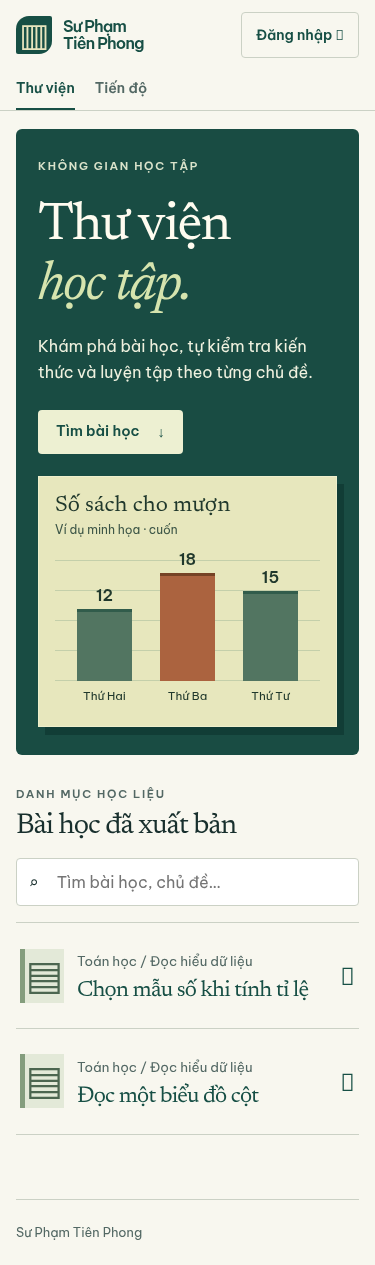
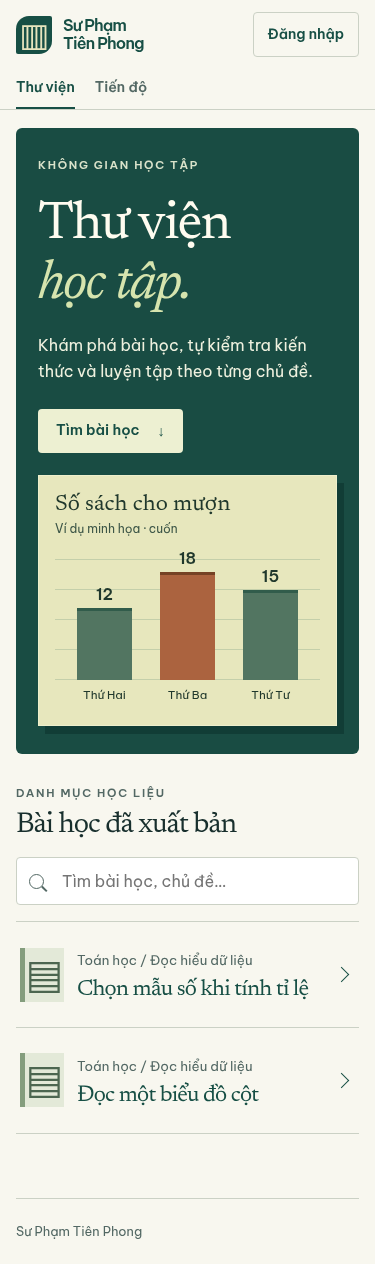
Verify static Pages navigation and polish narrow-screen catalog controls

diff --git a/apps/web/src/library.tsx b/apps/web/src/library.tsx
@@ -57,7 +57,7 @@ export function Catalog() {
 						<h2>Bài học đã xuất bản</h2>
 					</div>
 					<label className="search">
-						<span aria-hidden="true">⌕</span>
+						<span className="search-icon" aria-hidden="true" />
 						<input
 							id="search"
 							aria-label="Tìm bài học"
@@ -81,7 +81,7 @@ export function Catalog() {
 								</small>
 								<h3>{l.title}</h3>
 							</div>
-							<span className="row-arrow">↗</span>
+							<span className="row-arrow" aria-hidden="true" />
 						</Link>
 					))
 				) : (
@@ -104,6 +104,7 @@ export function Reader({ signed }: { signed: boolean }) {
 			<PageTop>{l.title}</PageTop>
 			<p className="meta">
 				{l.subject} · {l.course} · Phiên bản {l.version}
+				{l.sample && " · Học liệu minh họa do dự án biên soạn"}
 			</p>
 			<section className="objective">
 				<h2>Mục tiêu bài học</h2>

diff --git a/apps/api/src/app.ts b/apps/api/src/app.ts
@@ -84,7 +84,7 @@ export function createApp(services: Services) {
 	app.get("/lessons/:id", async (c) => {
 		const sql = db();
 		const [row] =
-			await sql`SELECT v.id,v.title,v.version,v.body,c.subject,c.title AS course FROM content_versions v JOIN courses c ON v.course_id=c.id WHERE v.id=${id(c.req.param("id"))} AND v.state='published' AND v.kind='lesson'`;
+			await sql`SELECT v.id,v.title,v.version,v.body,(v.author IS NULL) AS sample,c.subject,c.title AS course FROM content_versions v JOIN courses c ON v.course_id=c.id WHERE v.id=${id(c.req.param("id"))} AND v.state='published' AND v.kind='lesson'`;
 		if (!row) throw new HTTPException(404);
 		const exams =
 			await sql`SELECT e.id,e.title,e.minutes,count(i.position)::int AS count FROM exams e JOIN exam_items i ON i.exam_id=e.id WHERE lesson_id=${row.id} AND e.sealed GROUP BY e.id ORDER BY e.created_at`;

diff --git a/apps/web/src/style.css b/apps/web/src/style.css
@@ -485,3 +485,31 @@ footer.wrap {
 .account span {
 	font-family: system-ui, sans-serif;
 }
+
+.row-arrow {
+	width: 11px;
+	height: 11px;
+	border: solid var(--green);
+	border-width: 1.5px 1.5px 0 0;
+	transform: rotate(45deg);
+	margin-right: 8px;
+	flex-shrink: 0;
+}
+.search-icon {
+	width: 15px;
+	height: 15px;
+	border: 1.5px solid var(--muted);
+	border-radius: 50%;
+	position: relative;
+	flex-shrink: 0;
+}
+.search-icon::after {
+	content: "";
+	position: absolute;
+	width: 7px;
+	height: 1.5px;
+	background: var(--muted);
+	right: -5px;
+	bottom: -2px;
+	transform: rotate(45deg);
+}

diff --git a/apps/web/src/main.tsx b/apps/web/src/main.tsx
@@ -155,7 +155,7 @@ function Workspace({ identity }: { identity: string | null | undefined }) {
 						</Action>
 					) : (
 						<Link className="account" to="/login">
-							Đăng nhập <span aria-hidden="true">↗</span>
+							Đăng nhập
 						</Link>
 					)}
 				</div>

diff --git a/apps/web/src/attempt.tsx b/apps/web/src/attempt.tsx
@@ -195,7 +195,7 @@ export function Progress() {
 					{data.lessons.length ? (
 						data.lessons.map((l) => (
 							<Link className="list-link" key={l.id} to={`/lessons/${l.id}`}>
-								{l.title} ↗
+								{l.title}
 							</Link>
 						))
 					) : (

diff --git a/packages/contracts/index.ts b/packages/contracts/index.ts
@@ -31,6 +31,7 @@ export interface CatalogItem {
 	version: number;
 }
 export interface Lesson extends CatalogItem {
+	sample: boolean;
 	body: z.infer<typeof lessonBody>;
 	exams: { id: string; title: string; minutes: number; count: number }[];
 }

diff --git a/docs/testing/acceptance.md b/docs/testing/acceptance.md
@@ -7,6 +7,7 @@
 | Vitest với PostgreSQL | PASS · 10 ca gồm migration lặp, điểm xác định, quyền sở hữu, lưu xung đột, nộp đồng thời, hết giờ, khóa đề và tái hiện đáp án cũ |
 | Biên tập và hạn mức | PASS trong cùng bộ Vitest. Gửi duyệt, xuất bản độc lập, lập đề, ghi audit, xử lý báo lỗi và quota provider thử |
 | Playwright Chromium | PASS · 4 ca. Hai hành trình học sinh và biên tập chạy trên desktop 1366 × 900 và mobile 375 × 812 |
+| Trang tĩnh trong thư mục dự án | PASS · mở bài qua hash route, tải lại deep link ở cả hai kích thước |
 | Danh mục và bài đã xuất bản | PASS qua API Node và Worker cục bộ với PostgreSQL |
 | Xác thực JWT | PASS trong browser test dùng dịch vụ danh tính riêng cho kiểm thử và JWKS ES256. Hosted Supabase cần xác minh tại staging |
 | AI bên ngoài | Chưa chạy · cần endpoint, model và ngân sách đã duyệt |
